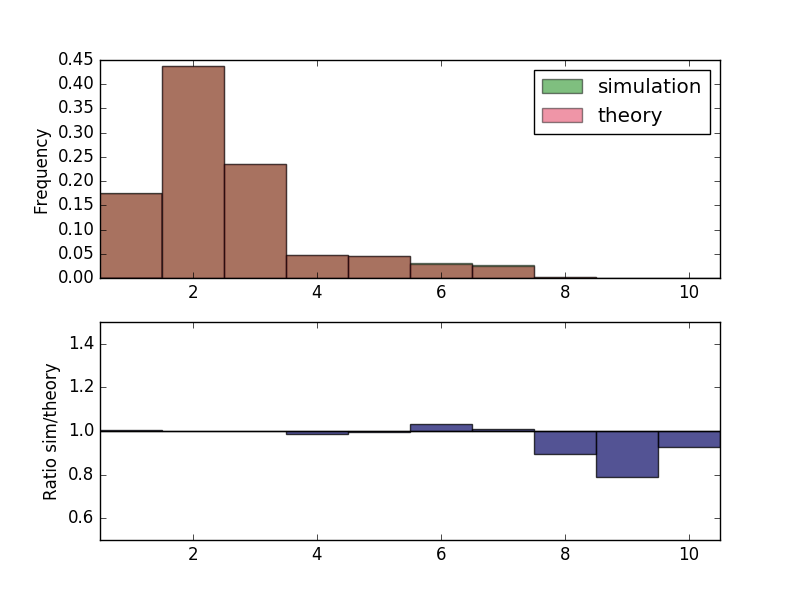
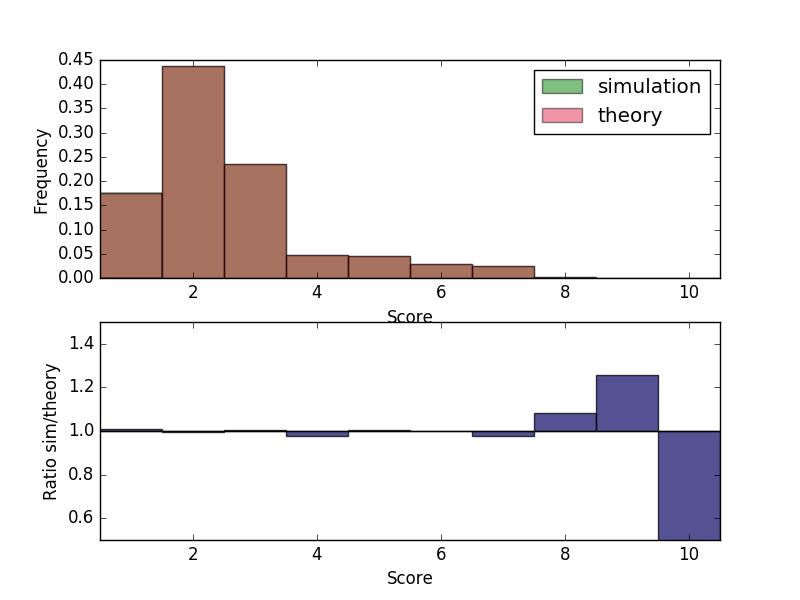
added axis labels to plot
d

diff --git a/run.py b/run.py
@@ -124,10 +124,12 @@ def set_up(n_runs=1000, num_players=3, print_state=False, print_stats=False):
     ax1.legend(loc='upper right')
     ax1.set_xlim(0.5, 10.5)
     ax1.set_ylabel('Frequency')
+    ax1.set_xlabel('Score')
     ratio = [ns[i]/n2[i]-1 if n2[i] != 0 else 0 for i in range(10)]
     bins = [i for i in range(1,11) ]
     ax2.bar(bins, ratio,align="center",bottom=1.0, width=1.0, alpha=0.75, color="midnightblue")
     ax2.set_ylabel('Ratio sim/theory')
+    ax2.set_xlabel('Score')
     ax2.axhline(1, color='black')
     ax2.set_ylim(0.5,1.5)
     ax2.set_xlim(0.5,10.5)

diff --git a/README.md b/README.md
@@ -57,17 +57,19 @@ for p in players:
 
 ### Simulation compared to theory
 After 10k simulations, the number of hands reflects the theory probabilities very well
-![Simulation histogram odds](poker_sim_ratio.png)
 
 Score | Hand | % Simulated | % Predicted |
 ------|------|-------------|-------------|
-1 |      High Card| 17.4710| 17.4119|
-2 |       One Pair| 43.7390| 43.8225|
-3 |       Two Pair| 23.5070| 23.4955|
-4 |Three of a Kind| 4.7600 | 4.8299| 
-5 |       Straight| 4.6030 | 4.6194| 
-6 |          Flush| 3.1210 | 3.0255| 
-7 |     Full House| 2.6240 | 2.5961| 
-8  |Four of a Kind| 0.1500 | 0.1681| 
-9  |Straight Flush |0.0220 | 0.0279 |
-10 |Royal Flush | 0.0030 | 0.0032 |
+1  |      High Card | 17.5720 | 17.4119|
+2  |       One Pair | 43.6790 | 43.8225|
+3  |       Two Pair | 23.6130 | 23.4955|
+4  |Three of a Kind | 4.7220  | 4.8299| 
+5  |       Straight | 4.6450  | 4.6194| 
+6  |          Flush | 3.0190  | 3.0255| 
+7  |     Full House | 2.5320  | 2.5961| 
+8  |Four of a Kind  | 0.1820  | 0.1681| 
+9  |Straight Flush  | 0.0350  | 0.0279 |
+10 |Royal Flush     | 0.0010  | 0.0032 |
+
+
+![Simulation histogram odds](poker_sim_ratio.png)
